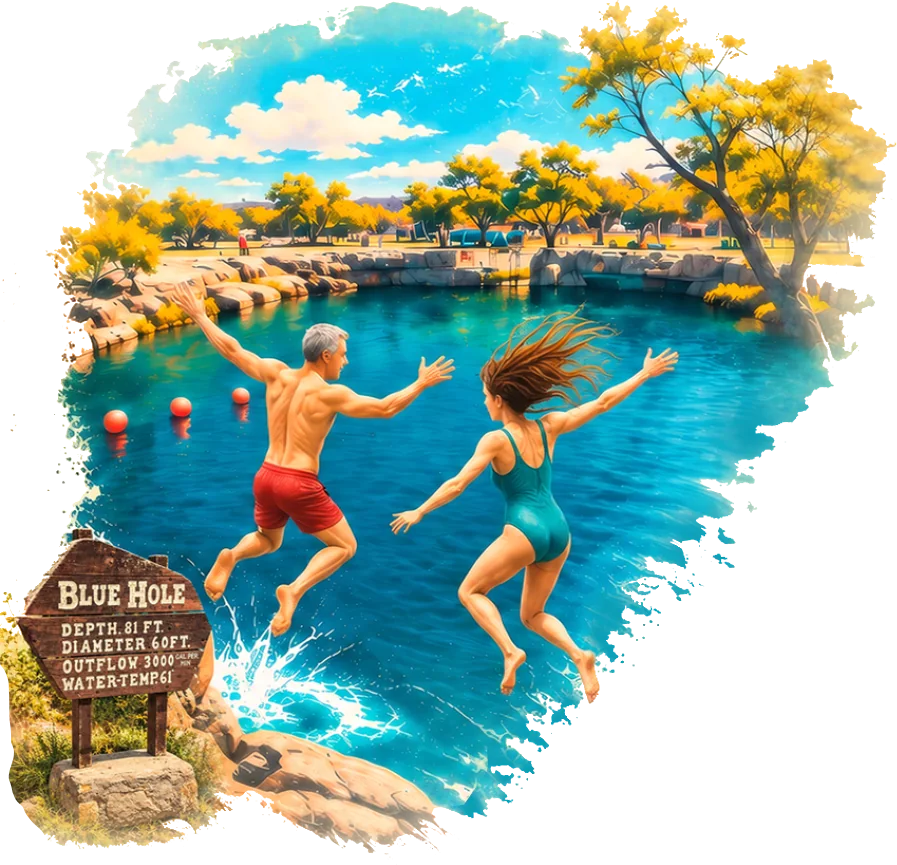
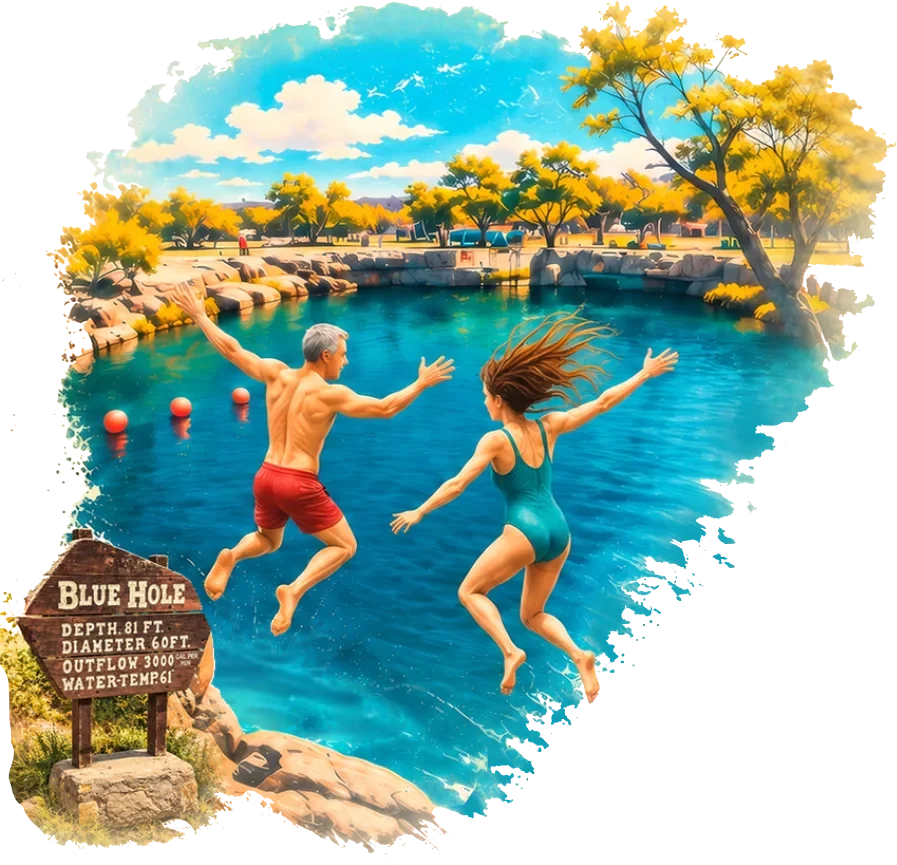
Sandbox: On the Road two-column with Blue Hole photo (fixed aspect, splash removed); Comfort off the Court moved above it
Claude-Session: https://claude.ai/code/session_01KAp1Uvzf5YfVdMgTTdoSDq

Changed region(s): [[0.2185, 0.6867, 0.4682, 0.874]]

diff --git a/index.html b/index.html
@@ -140,8 +140,11 @@
   .vig-l{left:-6%} .vig-r{right:-6%}
   .passage{font-family:'Passion One','Arial Black',sans-serif;color:var(--red);font-size:clamp(1.8rem,3.3vw,4rem);line-height:1.15;max-width:1080px;margin:clamp(28px,6vw,110px) auto 36px}
   .kicker{font-family:'Barlow Condensed',sans-serif;font-weight:500;text-transform:uppercase;font-size:clamp(1.1rem,1.6vw,2rem)}
-  .quarry.quarry-top{display:block;margin:0 auto 30px}
-  .otr-lede{max-width:760px;margin:0 auto}
+  .otr-split{display:grid;grid-template-columns:minmax(0,23fr) minmax(0,21fr);gap:clamp(32px,5vw,80px);align-items:center;max-width:1200px}
+  .otr-photo{display:block;width:100%;height:auto}
+  .otr-copy .form-card{margin-left:0;margin-right:0}
+  .otr-lede{max-width:760px}
+  @media(max-width:820px){.otr-split{grid-template-columns:1fr;text-align:center}.otr-photo{max-width:480px;margin:0 auto}.otr-lede,.otr-copy .form-card{margin-left:auto;margin-right:auto}}
   #on-the-road .form-card{margin-top:0;padding-top:clamp(20px,2.5vw,36px)}
   .otr-preview{font-weight:700;margin-top:12px;color:var(--red)}
   .quarry{width:clamp(280px,30vw,560px);margin:36px auto 0}
@@ -349,9 +352,22 @@ j=d.createElement(s),dl=l!='dataLayer'?'&l='+l:'';j.async=true;j.src=
   <img class="court-band" src="/assets/kimp/pickleball-court.webp" width="1208" height="395" alt="Four players mid-rally on a resort court at sunset, palms and desert mountains behind" loading="lazy">
 </section>
 
+<section class="comfort" id="comfort">
+  <div class="wrap center">
+    <span class="script">Comfort off the court</span>
+    <h2>Eleven days, zero roughing it.</h2>
+    <div class="comforts">
+      <article class="c-card"><img src="/assets/kimp/comfort-hotel.webp" alt="" loading="lazy"><h3>Historic hotels</h3><p>Every night in a hotel with a story &mdash; a lakeside resort under a landmark dome, a boutique hotel in a restored 1926 railway hospital, a desert resort with courts under the lights.</p></article>
+      <article class="c-card"><img src="/assets/kimp/comfort-coach.webp" alt="" loading="lazy"><h3>The motorcoach</h3><p>A full-size luxury motorcoach with a restroom on board and room to spread out. The windows do the entertaining.</p></article>
+      <article class="c-card"><img src="/assets/kimp/card-albuquerque.webp" alt="" loading="lazy"><h3>The table</h3><p>Breakfast and lunch every day, a Kickoff Reception on the first night and a Farewell Happy Hour on the last. Every other evening you're loose in the best roadfood country in America, and dinner is yours to choose.</p></article>
+    </div>
+  </div>
+</section>
+
 <section class="country" id="country">
-  <div class="wrap center" id="on-the-road">
-    <img class="quarry quarry-top" src="/assets/kimp/blue-hole.webp" width="897" height="865" alt="Two swimmers leaping into the Blue Hole in Santa Rosa, New Mexico" loading="lazy">
+  <div class="wrap otr-split" id="on-the-road">
+    <img class="otr-photo" src="/assets/kimp/blue-hole.webp" width="897" height="865" alt="Two swimmers leaping into the Blue Hole in Santa Rosa, New Mexico" loading="lazy">
+    <div class="otr-copy">
     <span class="script">On the Road</span>
     <h2>Not Quite Ready to Jump In?</h2>
     <p class="route-sub">Experience the Route 66 Pickleball Tour by Email</p>
@@ -370,17 +386,6 @@ j=d.createElement(s),dl=l!='dataLayer'?'&l='+l:'';j.async=true;j.src=
       <p class="otr-preview" hidden>Preview only: signups switch on once the On the Road emails are live.</p>
     </form>
     </div>
-  </div>
-</section>
-
-<section class="comfort" id="comfort">
-  <div class="wrap center">
-    <span class="script">Comfort off the court</span>
-    <h2>Eleven days, zero roughing it.</h2>
-    <div class="comforts">
-      <article class="c-card"><img src="/assets/kimp/comfort-hotel.webp" alt="" loading="lazy"><h3>Historic hotels</h3><p>Every night in a hotel with a story &mdash; a lakeside resort under a landmark dome, a boutique hotel in a restored 1926 railway hospital, a desert resort with courts under the lights.</p></article>
-      <article class="c-card"><img src="/assets/kimp/comfort-coach.webp" alt="" loading="lazy"><h3>The motorcoach</h3><p>A full-size luxury motorcoach with a restroom on board and room to spread out. The windows do the entertaining.</p></article>
-      <article class="c-card"><img src="/assets/kimp/card-albuquerque.webp" alt="" loading="lazy"><h3>The table</h3><p>Breakfast and lunch every day, a Kickoff Reception on the first night and a Farewell Happy Hour on the last. Every other evening you're loose in the best roadfood country in America, and dinner is yours to choose.</p></article>
     </div>
   </div>
 </section>
